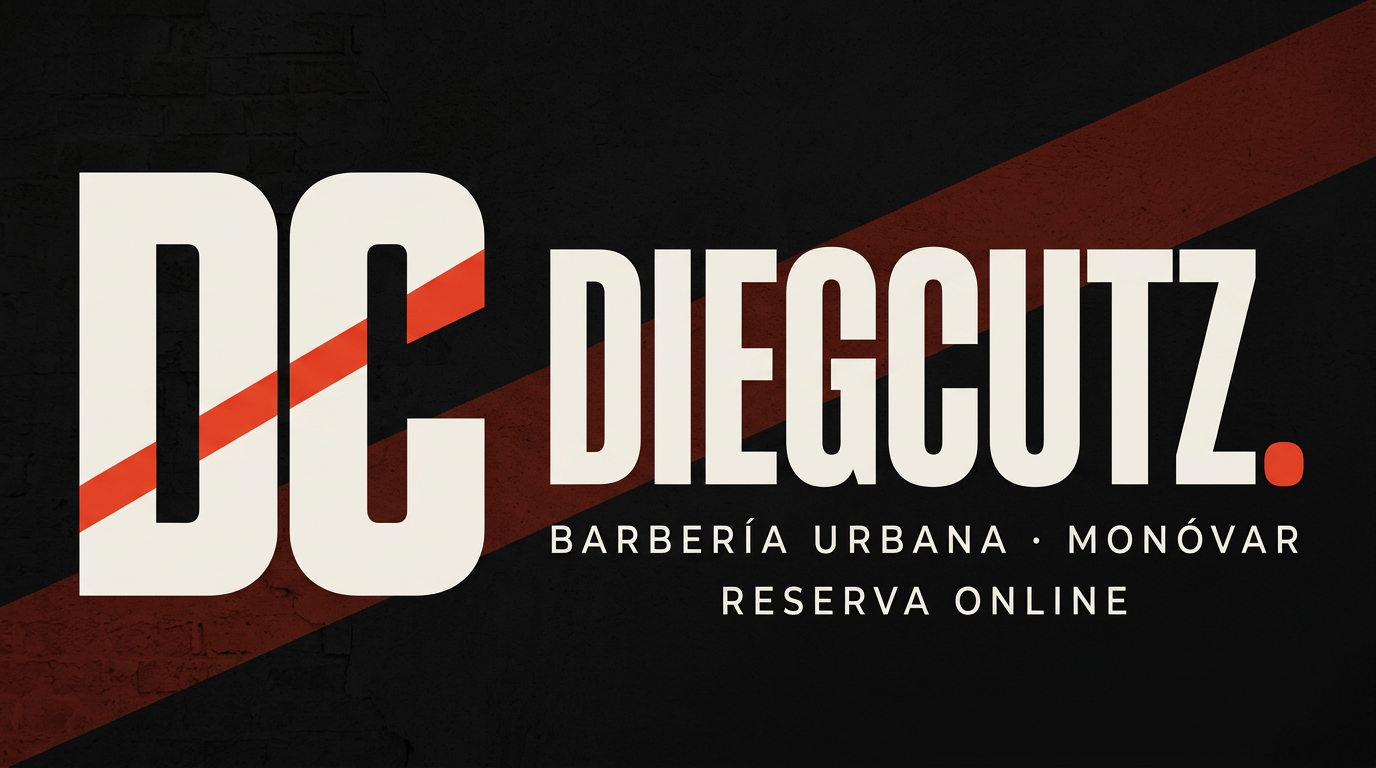
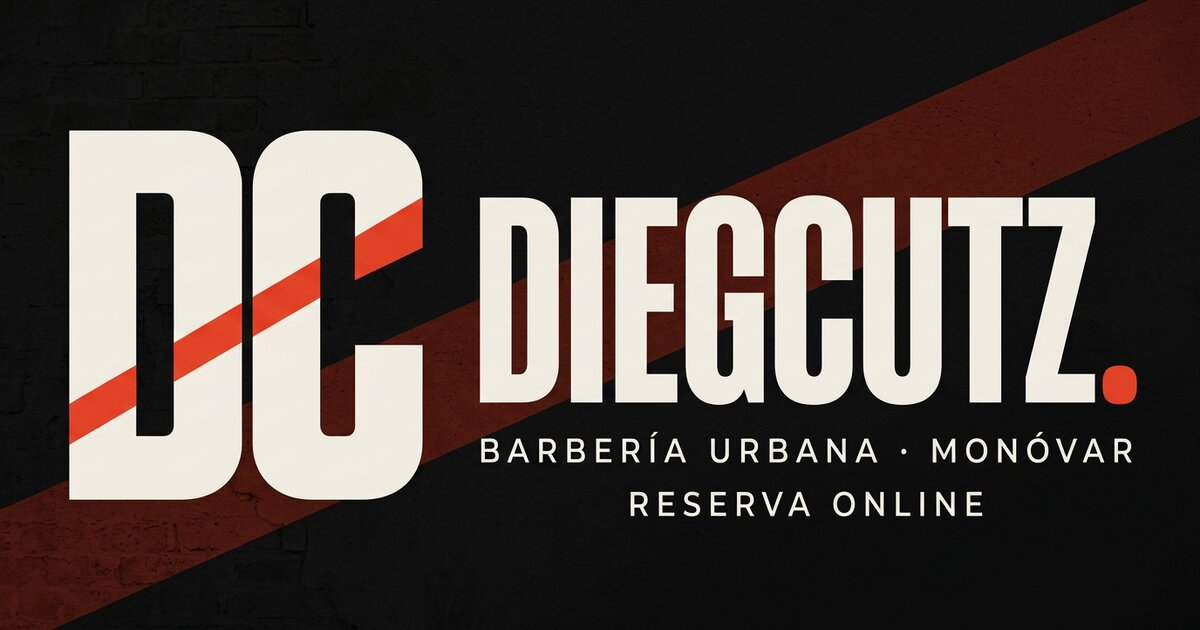
Changes

diff --git a/index.html b/index.html
@@ -3,8 +3,8 @@
   <head>
     <meta charset="UTF-8" />
     <meta name="viewport" content="width=device-width, initial-scale=1.0, maximum-scale=1.0, user-scalable=no, viewport-fit=cover" />
-    <title>DIEGCUTZ - Barbería Urbana | Reserva tu Cita Online</title>
-    <meta name="description" content="DIEGCUTZ, barbería urbana en Monóvar. Corte, barba y asesoramiento profesional con reserva online.">
+    <title>DIEGCUTZ. — Barbería urbana en Monóvar | Reserva online</title>
+    <meta name="description" content="Cortes, fades y barba con precisión en el estudio DIEGCUTZ de Monóvar. Elige día y hora, reserva en segundos y paga en la barbería.">
     <meta name="author" content="DIEGCUTZ" />
     
     <!-- PWA Meta Tags -->
@@ -19,20 +19,30 @@
     <meta name="format-detection" content="telephone=no" />
     
     <!-- PWA Icons -->
-    <link rel="icon" type="image/png" href="/favicon.png" />
+    <link rel="icon" type="image/png" sizes="64x64" href="/favicon.png" />
+    <link rel="icon" type="image/png" sizes="32x32" href="/favicon-32x32.png" />
     <link rel="icon" type="image/png" sizes="16x16" href="/favicon-16x16.png" />
     <link rel="apple-touch-icon" sizes="180x180" href="/apple-touch-icon.png" />
-    <link rel="mask-icon" href="/safari-pinned-tab.svg" color="#26D9FF" />
+    <link rel="mask-icon" href="/safari-pinned-tab.svg" color="#E1341E" />
     <link rel="manifest" href="/manifest.webmanifest" />
     
     <!-- Open Graph -->
     <meta property="og:type" content="website" />
+    <meta property="og:site_name" content="DIEGCUTZ" />
+    <meta property="og:locale" content="es_ES" />
+    <meta property="og:url" content="https://diegcutz.es/" />
+    <meta property="og:image" content="https://diegcutz.es/og-image.jpg" />
+    <meta property="og:image:width" content="1200" />
+    <meta property="og:image:height" content="630" />
+    <meta property="og:image:alt" content="Logo DC y DIEGCUTZ, barbería urbana en Monóvar" />
     <meta name="twitter:card" content="summary_large_image" />
     <meta name="twitter:site" content="@diegcutz" />
-    <meta property="og:title" content="DIEGCUTZ - Barbería Urbana | Reserva tu Cita Online">
-    <meta name="twitter:title" content="DIEGCUTZ - Barbería Urbana | Reserva tu Cita Online">
-    <meta property="og:description" content="DIEGCUTZ, barbería urbana en Monóvar. Corte, barba y asesoramiento profesional con reserva online.">
-    <meta name="twitter:description" content="DIEGCUTZ, barbería urbana en Monóvar. Corte, barba y asesoramiento profesional con reserva online.">
+    <meta name="twitter:image" content="https://diegcutz.es/og-image.jpg" />
+    <meta property="og:title" content="DIEGCUTZ. — Barbería urbana en Monóvar">
+    <meta name="twitter:title" content="DIEGCUTZ. — Barbería urbana en Monóvar">
+    <meta property="og:description" content="Cortes, fades y barba con precisión. Reserva tu cita online en segundos y paga en la barbería.">
+    <meta name="twitter:description" content="Cortes, fades y barba con precisión. Reserva tu cita online en segundos y paga en la barbería.">
+
     
     <!-- Fonts -->
     <link rel="preconnect" href="https://fonts.googleapis.com">
